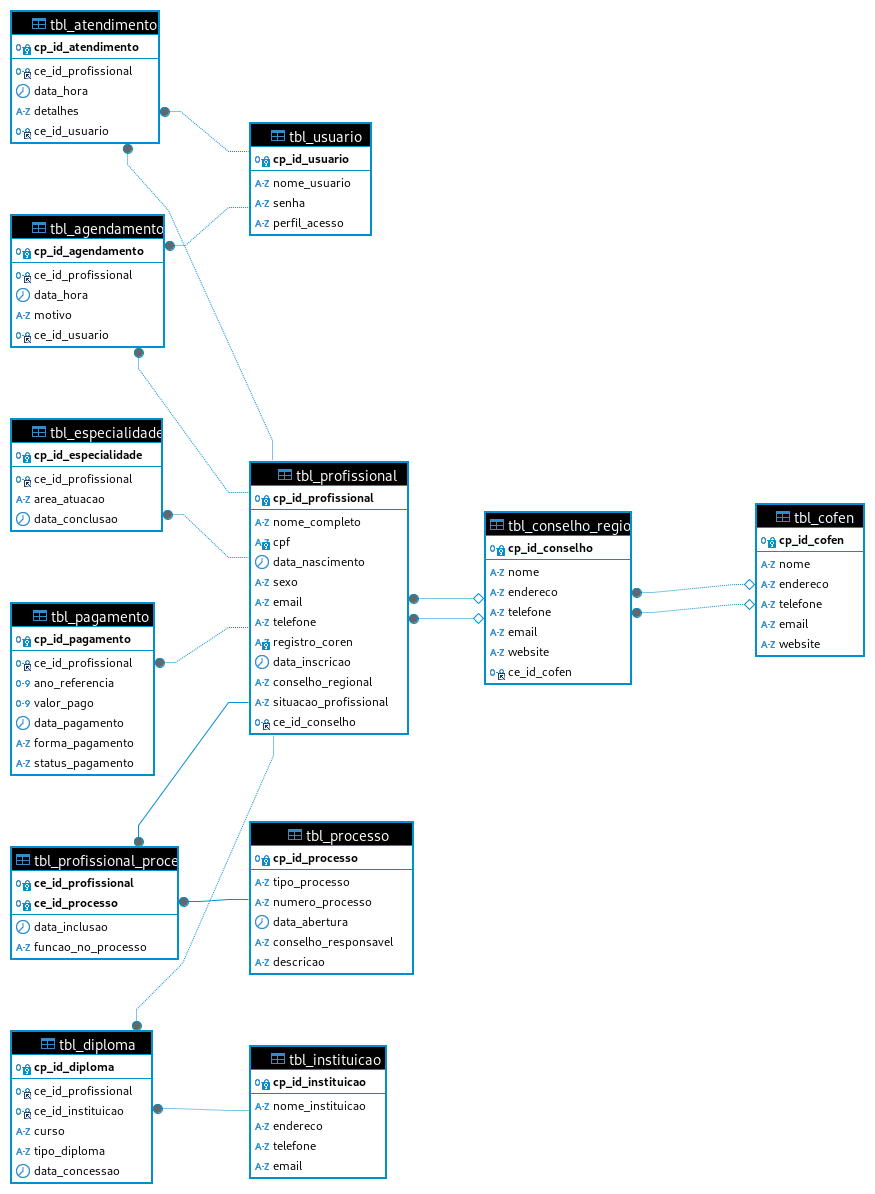
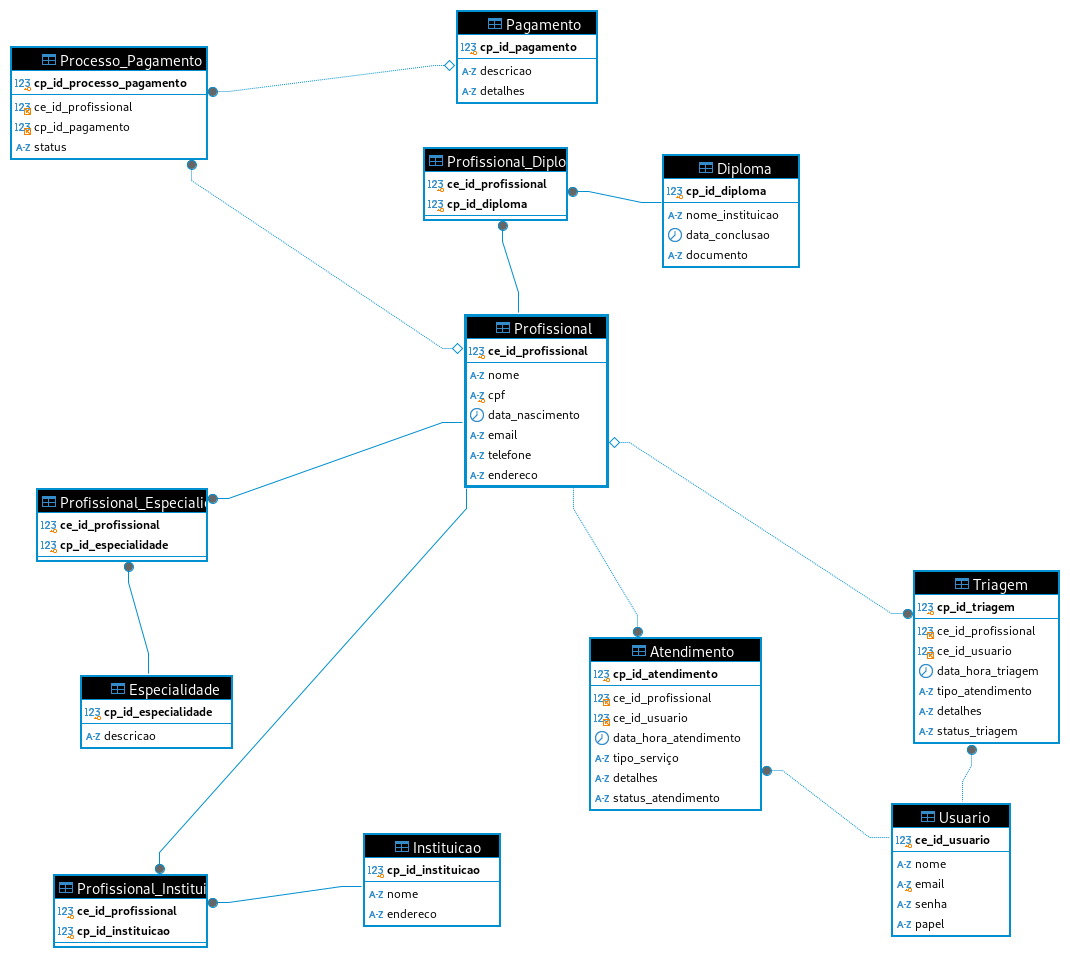
alteração no projeto

diff --git a/README.md b/README.md
@@ -78,176 +78,169 @@ O sistema deve garantir a segurança dos dados com controle de acesso baseado em
 - Criação e gerenciamento de perfis de usuário com diferentes níveis de acesso.
 - Definição de permissões de acesso para cada funcionalidade do sistema.
 - Registro de logs de acesso, incluindo data, hora, usuário, ação realizada e IP de origem.
-## 1.3 Delimitação do Mini-Mundo para o Banco de Dados
+# 1.3 Delimitação do Mini-Mundo para o Banco de Dados
 
-### **tbl_profissional**
-Tabela que concentra informações sobre os profissionais de enfermagem cadastrados.
+## Tabelas
 
-- **cp_id_profissional** `[int, incremental]`: Código identificador do profissional.
-- **nome_completo** `[str, 200 caracteres]`: Nome completo do profissional.
-- **cpf** `[str, 11 caracteres]`: CPF do profissional. Único.
-- **data_nascimento** `[date]`: Data de nascimento do profissional.
-- **sexo** `[str, 1 caractere]`: Sexo do profissional.
-- **email** `[str, 100 caracteres]`: Email do profissional.
-- **telefone** `[str, 15 caracteres]`: Telefone do profissional.
-- **registro_coren** `[str, 20 caracteres]`: Número de registro no COREN. Único.
-- **data_inscricao** `[date]`: Data de inscrição no COREN.
-- **conselho_regional** `[str, 50 caracteres]`: Conselho regional do profissional.
-- **situacao_profissional** `[str, 20 caracteres]`: Situação profissional (ativo, suspenso, inativo, cancelado).
+### 1. Tabela `Profissional`
+- **`ce_id_profissional INT AUTO_INCREMENT PRIMARY KEY`**: Identificador único do profissional (chave primária).
+- **`nome VARCHAR(255) NOT NULL`**: Nome do profissional (obrigatório).
+- **`cpf CHAR(11) UNIQUE NOT NULL`**: CPF do profissional (obrigatório e único).
+- **`data_nascimento DATE`**: Data de nascimento do profissional.
+- **`email VARCHAR(255)`**: Email do profissional.
+- **`telefone VARCHAR(20)`**: Telefone de contato do profissional.
+- **`endereco TEXT`**: Endereço do profissional.
 
-### **tbl_instituicao**
-Tabela que concentra informações sobre as instituições de ensino.
+### 2. Tabela `Especialidade`
+- **`cp_id_especialidade INT AUTO_INCREMENT PRIMARY KEY`**: Identificador único da especialidade (chave primária).
+- **`descricao VARCHAR(255) NOT NULL`**: Descrição da especialidade (obrigatório).
 
-- **cp_id_instituicao** `[int, incremental]`: Código identificador da instituição. Único e incremental.
-- **nome_instituicao** `[str, 100 caracteres]`: Nome da instituição de ensino.
-- **endereco** `[str, 200 caracteres]`: Endereço da instituição de ensino.
-- **telefone** `[str, 15 caracteres]`: Telefone da instituição de ensino.
-- **email** `[str, 100 caracteres]`: Email da instituição de ensino.
+### 3. Tabela `Diploma`
+- **`cp_id_diploma INT AUTO_INCREMENT PRIMARY KEY`**: Identificador único do diploma (chave primária).
+- **`nome_instituicao VARCHAR(255) NOT NULL`**: Nome da instituição emissora do diploma (obrigatório).
+- **`data_conclusao DATE`**: Data de conclusão do curso ou formação.
+- **`documento TEXT`**: Documento ou descrição do diploma.
 
-### **tbl_diploma**
-Tabela que concentra informações sobre os diplomas dos profissionais de enfermagem.
+### 4. Tabela `Instituicao`
+- **`cp_id_instituicao INT AUTO_INCREMENT PRIMARY KEY`**: Identificador único da instituição (chave primária).
+- **`nome VARCHAR(255) NOT NULL`**: Nome da instituição (obrigatório).
+- **`endereco TEXT`**: Endereço da instituição.
 
-- **cp_id_diploma** `[int, incremental]`: Código identificador do diploma. Único e incremental.
-- **ce_id_profissional** `[int, 8 bytes]`: Chave estrangeira que define o profissional de enfermagem.
-- **ce_id_instituicao** `[int, 8 bytes]`: Chave estrangeira que define a instituição de ensino.
-- **curso** `[str, 100 caracteres]`: Nome do curso.
-- **tipo_diploma** `[str, 50 caracteres]`: Tipo de diploma.
-- **data_concessao** `[date]`: Data de concessão do diploma.
+### 5. Tabela `Pagamento`
+- **`cp_id_pagamento INT AUTO_INCREMENT PRIMARY KEY`**: Identificador único do pagamento (chave primária).
+- **`descricao VARCHAR(255) NOT NULL`**: Descrição do pagamento (obrigatório).
+- **`detalhes TEXT`**: Detalhes adicionais sobre o pagamento.
 
-### **tbl_pagamento**
-Tabela que concentra informações sobre os pagamentos realizados pelos profissionais.
+### 6. Tabela `Processo_Pagamento`
+- **`cp_id_processo_pagamento INT AUTO_INCREMENT PRIMARY KEY`**: Identificador único do processo de pagamento (chave primária).
+- **`ce_id_profissional INT`**: Chave estrangeira que referencia um profissional.
+- **`cp_id_pagamento INT`**: Chave estrangeira que referencia um pagamento.
+- **`status ENUM('Pendente', 'Pago', 'Cancelado') NOT NULL`**: Status do processo de pagamento (obrigatório).
+- **`FOREIGN KEY (ce_id_profissional) REFERENCES Profissional(ce_id_profissional)`**: Chave estrangeira que referencia a tabela `Profissional`.
+- **`FOREIGN KEY (cp_id_pagamento) REFERENCES Pagamento(cp_id_pagamento)`**: Chave estrangeira que referencia a tabela `Pagamento`.
 
-- **cp_id_pagamento** `[int, incremental]`: Código identificador do pagamento. Único e incremental.
-- **ce_id_profissional** `[int, 8 bytes]`: Chave estrangeira que define o profissional de enfermagem.
-- **ano_referencia** `[int]`: Ano de referência do pagamento.
-- **valor_pago** `[decimal, 10, 2]`: Valor pago pelo profissional.
-- **data_pagamento** `[date]`: Data do pagamento.
-- **forma_pagamento** `[str, 50 caracteres]`: Forma de pagamento.
-- **status_pagamento** `[str, 20 caracteres]`: Status do pagamento (pago, pendente, atrasado).
+### 7. Tabela `Triagem`
+- **`cp_id_triagem INT AUTO_INCREMENT PRIMARY KEY`**: Identificador único da triagem (chave primária).
+- **`ce_id_profissional INT NULL`**: Chave estrangeira opcional que referencia um profissional.
+- **`ce_id_usuario INT NOT NULL`**: Chave estrangeira que referencia um usuário.
+- **`data_hora_triagem DATETIME NOT NULL`**: Data e hora da triagem (obrigatório).
+- **`tipo_atendimento ENUM('Cadastro', 'Renovação', 'Regularização') NOT NULL`**: Tipo de atendimento (obrigatório).
+- **`detalhes TEXT`**: Detalhes adicionais sobre a triagem.
+- **`status_triagem ENUM('Pendente', 'Concluída', 'Cancelada') NOT NULL`**: Status da triagem (obrigatório).
+- **`FOREIGN KEY (ce_id_profissional) REFERENCES Profissional(ce_id_profissional)`**: Chave estrangeira que referencia a tabela `Profissional`.
+- **`FOREIGN KEY (ce_id_usuario) REFERENCES Usuario(ce_id_usuario)`**: Chave estrangeira que referencia a tabela `Usuario`.
 
-### **tbl_processo**
-Tabela que concentra informações sobre os processos envolvendo profissionais de enfermagem.
+### 8. Tabela `Atendimento`
+- **`cp_id_atendimento INT AUTO_INCREMENT PRIMARY KEY`**: Identificador único do atendimento (chave primária).
+- **`ce_id_profissional INT NOT NULL`**: Chave estrangeira que referencia um profissional (obrigatório).
+- **`ce_id_usuario INT NOT NULL`**: Chave estrangeira que referencia um usuário (obrigatório).
+- **`data_hora_atendimento DATETIME NOT NULL`**: Data e hora do atendimento (obrigatório).
+- **`tipo_serviço ENUM('Cadastro', 'Renovação', 'Regularização') NOT NULL`**: Tipo de serviço prestado (obrigatório).
+- **`detalhes TEXT`**: Detalhes adicionais sobre o atendimento.
+- **`status_atendimento ENUM('Pendente', 'Concluída', 'Cancelada') NOT NULL`**: Status do atendimento (obrigatório).
+- **`FOREIGN KEY (ce_id_profissional) REFERENCES Profissional(ce_id_profissional)`**: Chave estrangeira que referencia a tabela `Profissional`.
+- **`FOREIGN KEY (ce_id_usuario) REFERENCES Usuario(ce_id_usuario)`**: Chave estrangeira que referencia a tabela `Usuario`.
 
-- **cp_id_processo** `[int, incremental]`: Código identificador do processo. Único e incremental.
-- **ce_id_profissional** `[int, 8 bytes]`: Chave estrangeira que define o profissional de enfermagem.
-- **tipo_processo** `[str, 50 caracteres]`: Tipo de processo (ético, administrativo, disciplinar).
-- **numero_processo** `[str, 50 caracteres]`: Número do processo.
-- **data_abertura** `[date]`: Data de abertura do processo.
-- **conselho_responsavel** `[str, 50 caracteres]`: Conselho regional responsável pelo processo.
-- **descricao** `[text]`: Descrição do caso.
+### 9. Tabela `Profissional_Especialidade`
+- **`ce_id_profissional INT NOT NULL`**: Chave estrangeira que referencia um profissional (obrigatório).
+- **`cp_id_especialidade INT NOT NULL`**: Chave estrangeira que referencia uma especialidade (obrigatório).
+- **`PRIMARY KEY (ce_id_profissional, cp_id_especialidade)`**: Combinação das chaves como única (relacionamento N:N).
+- **`FOREIGN KEY (ce_id_profissional) REFERENCES Profissional(ce_id_profissional)`**: Chave estrangeira que referencia a tabela `Profissional`.
+- **`FOREIGN KEY (cp_id_especialidade) REFERENCES Especialidade(cp_id_especialidade)`**: Chave estrangeira que referencia a tabela `Especialidade`.
 
-### **tbl_profissional_processo**
-- **ce_id_profissional** `[int, 8 bytes]`: Chave estrangeira que define o profissional de enfermagem.
-- **ce_id_processo** `[int, 8 bytes]`: Chave estrangeira que define o processo.
-- **data_inclusao** `[date]`: Data de inclusão do profissional no processo.
-- **funcao_no_processo** `[str, 100 caracteres]`: Função do profissional no processo.
+### 10. Tabela `Profissional_Diploma`
+- **`ce_id_profissional INT NOT NULL`**: Chave estrangeira que referencia um profissional (obrigatório).
+- **`cp_id_diploma INT NOT NULL`**: Chave estrangeira que referencia um diploma (obrigatório).
+- **`PRIMARY KEY (ce_id_profissional, cp_id_diploma)`**: Combinação das chaves como única (relacionamento N:N).
+- **`FOREIGN KEY (ce_id_profissional) REFERENCES Profissional(ce_id_profissional)`**: Chave estrangeira que referencia a tabela `Profissional`.
+- **`FOREIGN KEY (cp_id_diploma) REFERENCES Diploma(cp_id_diploma)`**: Chave estrangeira que referencia a tabela `Diploma`.
 
-  Detalha a participação do profissional em um processo específico:
-  - **Testemunha**: O profissional pode ser chamado para prestar depoimento sobre um determinado caso.
-  - **Acusado**: O profissional está sendo investigado ou acusado de alguma infração ou má conduta.
-  - **Representante Legal**: O profissional atua como representante legal ou advogado de outro profissional envolvido no processo.
-  - **Investigador**: O profissional faz parte de uma comissão que investiga o caso.
-  - **Perito**: O profissional atua como perito, fornecendo uma análise técnica ou especializada sobre o caso em questão.
-  - **Parte Interessada**: O profissional tem um interesse direto no desfecho do processo, mas não necessariamente está acusado ou testemunhando.
+### 11. Tabela `Profissional_Instituicao`
+- **`ce_id_profissional INT NOT NULL`**: Chave estrangeira que referencia um profissional (obrigatório).
+- **`cp_id_instituicao INT NOT NULL`**: Chave estrangeira que referencia uma instituição (obrigatório).
+- **`PRIMARY KEY (ce_id_profissional, cp_id_instituicao)`**: Combinação das chaves como única (relacionamento N:N).
+- **`FOREIGN KEY (ce_id_profissional) REFERENCES Profissional(ce_id_profissional)`**: Chave estrangeira que referencia a tabela `Profissional`.
+- **`FOREIGN KEY (cp_id_instituicao) REFERENCES Instituicao(cp_id_instituicao)`**: Chave estrangeira que referencia a tabela `Instituicao`.
 
-### **tbl_especialidade**
-Tabela que concentra informações sobre as especialidades dos profissionais de enfermagem.
+### 12. Tabela `Usuario`
+- **`ce_id_usuario INT AUTO_INCREMENT PRIMARY KEY`**: Identificador único do usuário (chave primária).
+- **`nome VARCHAR(255) NOT NULL`**: Nome do usuário (obrigatório).
+- **`email VARCHAR(255) NOT NULL`**: Email do usuário (obrigatório).
+- **`senha VARCHAR(255) NOT NULL`**: Senha do usuário (obrigatório).
+- **`perfil ENUM('Admin', 'Usuario') NOT NULL`**: Perfil do usuário (obrigatório).
 
-- **cp_id_especialidade** `[int, incremental]`: Código identificador da especialidade. Único e incremental.
-- **ce_id_profissional** `[int, 8 bytes]`: Chave estrangeira que define o profissional de enfermagem.
-- **area_atuacao** `[str, 100 caracteres]`: Área de atuação.
-- **data_conclusao** `[date]`: Data de conclusão da especialidade.
-
-### **tbl_usuario**
-Tabela que concentra informações sobre os usuários que controlam o sistema.
-
-- **cp_id_usuario** `[int, incremental]`: Código identificador do usuário. Único.
-- **nome_usuario** `[str, 100 caracteres]`: Nome do usuário.
-- **senha** `[str, 255 caracteres]`: Senha do usuário.
-- **perfil_acesso** `[str, 50 caracteres]`: Perfil de acesso do usuário.
-
-### **tbl_atendimento**
-Tabela para manutenção do histórico de atendimentos realizados para cada profissional.
-
-- **cp_id_atendimento** `[int, incremental]`: Código identificador do atendimento. Único e incremental.
-- **ce_id_profissional** `[int, 8 bytes]`: Chave estrangeira que define o profissional de enfermagem.
-- **data_hora** `[datetime]`: Data e hora do atendimento.
-- **detalhes** `[text]`: Detalhes do atendimento realizado.
-- **ce_id_usuario** `[int, 8 bytes]`: Chave estrangeira que define o usuário (atendente) que realizou o atendimento.
-
-### **tbl_agendamento**
-- **cp_id_agendamento** `[int, incremental]`: Código identificador do agendamento. Único e incremental.
-- **ce_id_profissional** `[int, 8 bytes]`: Chave estrangeira que define o profissional de enfermagem.
-- **data_hora** `[datetime]`: Data e hora agendada para o atendimento.
-- **motivo** `[text]`: Motivo do agendamento.
-- **ce_id_usuario** `[int, 8 bytes]`: Chave estrangeira que define o usuário que realizou o agendamento.
-
-### **tbl_conselho_regional**
-Tabela que concentra informações sobre o conselho regional de enfermagem (COREN-BA).
-
-- **cp_id_conselho** `[int, incremental]`: Código identificador do conselho. Único.
-- **nome** `[str, 100 caracteres]`: Nome do conselho.
-- **endereco** `[str, 200 caracteres]`: Endereço do conselho.
-- **telefone** `[str, 15 caracteres]`: Telefone do conselho.
-- **email** `[str, 100 caracteres]`: Email do conselho.
-- **website** `[str, 100 caracteres]`: Website do conselho.
-
-### **tbl_cofen**
-Tabela que concentra informações sobre o Conselho Federal de Enfermagem (COFEN).
-
-- **cp_id_cofen** `[int, incremental]`: Código identificador do COFEN. Único.
-- **nome** `[str, 100 caracteres]`: Nome do COFEN.
-- **endereco** `[str, 200 caracteres]`: Endereço do COFEN.
-- **telefone** `[str, 15 caracteres]`: Telefone do COFEN.
-- **email** `[str, 100 caracteres]`: Email do COFEN.
-- **website** `[str, 100 caracteres]`: Website do COFEN.
 
 ## Relações entre as Entidades
 
-### Relação entre `tbl_profissional` e `tbl_diploma`
-- Um profissional pode ter um ou vários diplomas.
-- Cada diploma pertence a um único profissional.
+## 1. Profissional e Especialidade
+- **Relação:** Muitos para Muitos (N:N)
+- **Descrição:** 
+  - Um profissional pode ter uma ou várias especialidades.
+  - Uma especialidade pode ser atribuída a um ou vários profissionais.
+- **Tabela Intermediária:** Profissional_Especialidade
 
-### Relação entre `tbl_diploma` e `tbl_instituicao`
-- Um diploma é emitido por uma única instituição.
-- Uma instituição pode emitir vários diplomas.
-- As relações entre diplomas e instituições devem registrar o curso e a data de concessão.
+## 2. Profissional e Diploma
+- **Relação:** Muitos para Muitos (N:N)
+- **Descrição:**
+  - Um profissional pode ter um ou vários diplomas.
+  - Um diploma pode ser associado a um ou vários profissionais.
+- **Tabela Intermediária:** Profissional_Diploma
 
-### Relação entre `tbl_pagamento` e `tbl_profissional`
-- Um profissional pode ter nenhum ou vários pagamentos.
-- Cada pagamento pertence a um único profissional.
-- As relações entre pagamentos e profissionais devem registrar o ano de referência, valor pago, data de pagamento, forma de pagamento e status do pagamento.
+## 3. Profissional e Instituição
+- **Relação:** Muitos para Muitos (N:N)
+- **Descrição:**
+  - Um profissional pode estar associado a uma ou várias instituições.
+  - Uma instituição pode estar associada a um ou vários profissionais.
+- **Tabela Intermediária:** Profissional_Instituicao
 
-### Relação entre `tbl_processo` e `tbl_profissional_processo`
-- Um profissional pode estar envolvido em vários processos.
-- Um processo pode envolver um ou mais profissionais.
-- As relações entre processos e profissionais devem registrar a função do profissional no processo e a data de inclusão.
+## 4. Profissional e Processo_Pagamento
+- **Relação:** Um para Muitos (1:N)
+- **Descrição:**
+  - Um profissional pode ter um ou vários processos de pagamento.
+  - Cada processo de pagamento é atribuído a um único profissional.
+- **Chave Estrangeira:** ce_id_profissional na tabela Processo_Pagamento
 
-### Relação entre `tbl_profissional` e `tbl_especialidade`
-- Um profissional pode ter várias especialidades.
-- Cada especialidade pertence a um único profissional.
+## 5. Pagamento e Processo_Pagamento
+- **Relação:** Um para Muitos (1:N)
+- **Descrição:**
+  - Um pagamento pode ser registrado em um ou vários processos de pagamento.
+  - Um processo de pagamento está relacionado a um único pagamento.
+- **Chave Estrangeira:** cp_id_pagamento na tabela Processo_Pagamento
 
-### Relação entre `tbl_profissional` e `tbl_atendimento`
-- Um profissional pode ter um ou vários atendimentos.
-- Cada atendimento pertence a um único profissional.
-- As relações entre atendimentos e profissionais devem registrar a data, hora e detalhes do atendimento.
+## 6. Triagem e Profissional
+- **Relação:** Um para Muitos (1:N)
+- **Descrição:**
+  - Uma triagem pode estar associada a um único profissional ou nenhum.
+  - Um profissional pode passar por uma ou várias triagens.
+- **Chave Estrangeira:** ce_id_profissional (opcional) na tabela Triagem
 
-### Relação entre `tbl_atendimento` e `tbl_usuario`
-- Um atendimento é realizado por um único usuário.
-- Um usuário pode realizar vários atendimentos.
+## 7. Triagem e Usuario
+- **Relação:** Um para Muitos (1:N)
+- **Descrição:**
+  - Uma triagem é sempre realizada por um único usuário.
+  - Um usuário pode realizar várias triagens.
+- **Chave Estrangeira:** ce_id_usuario na tabela Triagem
 
-### Relação entre `tbl_agendamento` e `tbl_profissional`
-- Um profissional pode ter um ou vários agendamentos.
-- Cada agendamento pertence a um único profissional.
-- As relações entre agendamentos e profissionais devem registrar a data, hora e motivo do agendamento.
+## 8. Atendimento e Profissional
+- **Relação:** Um para Muitos (1:N)
+- **Descrição:**
+  - Um atendimento é sempre relacionado a um único profissional.
+  - Um profissional pode ser atendido várias vezes.
+- **Chave Estrangeira:** ce_id_profissional na tabela Atendimento
 
-### Relação entre `tbl_agendamento` e `tbl_usuario`
-- Um agendamento é realizado por um único usuário.
-- Um usuário pode realizar vários agendamentos.
+## 9. Atendimento e Usuario
+- **Relação:** Um para Muitos (1:N)
+- **Descrição:**
+  - Um atendimento é realizado por um único usuário.
+  - Um usuário pode realizar vários atendimentos.
+- **Chave Estrangeira:** ce_id_usuario na tabela Atendimento
 
-### Relação entre `tbl_conselho_regional` e `tbl_profissional`
-- Um profissional pertence a um único conselho regional.
-- Um conselho regional pode ter vários profissionais associados.
+## 10. Usuario
+- **Relação:** Um para Muitos (1:N) com as tabelas Triagem e Atendimento
+- **Descrição:**
+  - Um usuário pode realizar várias triagens e atendimentos.
+  - Cada triagem ou atendimento é registrado por um único usuário.
+
 
 *Diagrama conceitual*
 ![Diagrama Conceitual](./img/diagrama_inicial/conceitual.png)
@@ -297,11 +290,29 @@ CREATE TABLE tbl_usuario (
 ---
 ### *Tela Inicial*
 Após acesso ao sistema, uma nova tela irá aparecer com um *menu* na parte superior:
-|PROFISSIONAL|AGENDAMENTO|PROCESSOS| *menu*
-|------------|-----------|---------|
-|cadastro|criar|consulta|
-|consulta|consulta||
 
+```mermaid
+flowchart TD
+    A[Profissional] --> B(cadastro) --> C(consulta)
+    D[Agendamento] --> E(novo) --> F(consulta)
+    G[Processos] --> H(cadastro) --> I(consulta)
+```
+>Menu `Profissional` terá submenus para acesso as telas de `consulta` e `cadastro`.
+
+Tela de Consulta e Edição de Profissionais
+
+Componentes:
+
+    Campo de Busca: Um campo para buscar profissionais pelo nome ou CPF.
+    Lista de Resultados: Exibe uma lista de profissionais encontrados com base nos critérios de busca.
+    Botões de Ação: Botões de "Editar" e "Excluir" ao lado de cada profissional listado.
+
+Fluxo:
+
+    O usuário insere um nome ou CPF no campo de busca e clica em "Buscar".
+    O sistema exibe os resultados na lista de resultados.
+    Ao clicar em "Editar", o usuário é levado para a Tela de Edição de Profissionais com os dados do profissional pré-preenchidos.
+    Ao clicar em "Excluir", o sistema solicita uma confirmação antes de excluir o profissional do banco de dados.
 
 
 - Tabela Profissional
